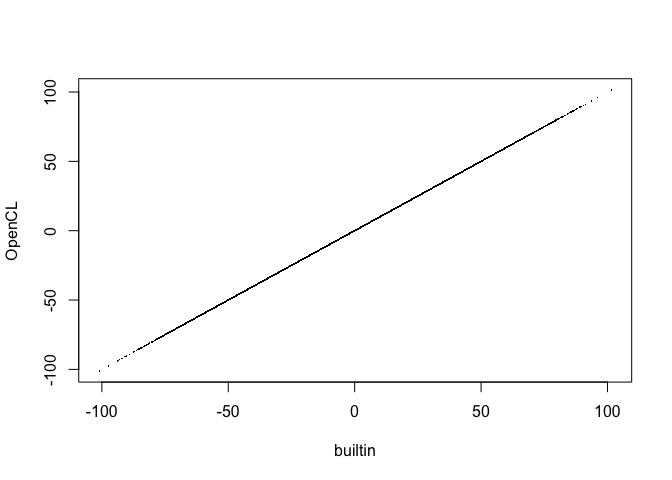
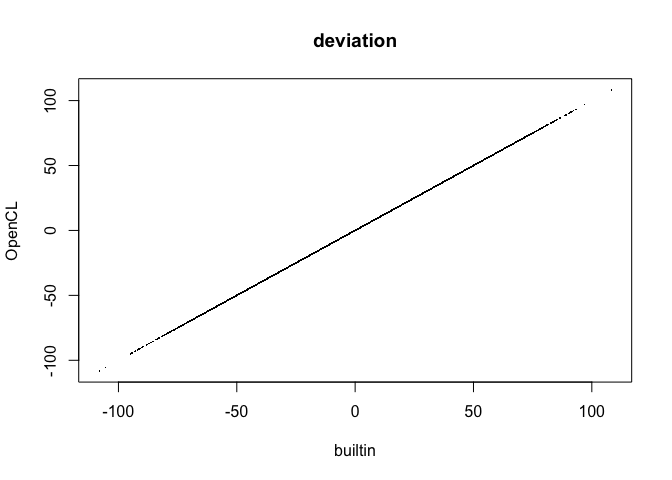
cran acceptance notice on readme, small edits

diff --git a/README.md b/README.md
@@ -1,7 +1,7 @@
-ardea 0.0.8
+ardea 0.1.1
 ================
 Nicholas Cooley
-2026-09-18
+2026-10-08
 
 - [Introduction](#introduction)
   - [Installation](#installation)
@@ -21,14 +21,20 @@ maturing](https://img.shields.io/badge/lifecycle-maturing-orange.svg)](https://l
 
 # Introduction
 
-*This package has been recently submitted to CRAN, and is relatively
-stable. It has only been thoroughly tested on a Mac M4, and a linux
-server running an NVIDIA A30.*
+*This package has been accepted to CRAN, and is relatively stable. It
+has only been thoroughly tested on a Mac M4, and a linux server running
+an NVIDIA A30.*
 
 ## Installation
 
-Once this package is on CRAN, that should be the preferred installation
-source, until then it can be installed from this repo via `pak`:
+The canonical form of `ardea` can be installed from CRAN via:
+
+``` r
+install.packages("ardea")
+```
+
+The version of `ardea` present in this repo can be installed from via
+`pak`:
 
 ``` r
 if (requireNamespace("pak", quietly = TRUE)) {
@@ -48,9 +54,9 @@ R CMD install --no-build-vignettes ardea
 This package is an attempt at building out infrastructure for users to
 dispatch code directly to GPU devices in R. It is currently designed to
 work wherever R works. During installation, it probes the system for the
-ability to successfully compile and run simple `Hello World` style
-device probes for target frameworks and their devices. Capabilities for
-specific frameworks are only compiled if the tooling for those
+ability to successfully compile and run `Hello World` style device
+probes for target frameworks and their devices. Capabilities for
+specific frameworks are only compiled if the tool chain for those
 frameworks is successfully detected.
 
 Because I do not have a Windows development environment, Windows is not
@@ -334,9 +340,14 @@ if (metal_is_available() &
   print("Metal is available on this system!")
   mtl_dvcs <- metal_device_information()
   mtl_ctx <- metal_make_context(device = mtl_dvcs[[1]])
-  mtl_program <- metal_make_program(metal_file = tmp_metal,
-                                    metallib_file = tmp_metallib,
-                                    context = mtl_ctx)
+  if (metal_compiler_is_available()) {
+    mtl_program <- metal_make_program(metal_file = tmp_metal,
+                                      metallib_file = tmp_metallib,
+                                      context = mtl_ctx)
+  } else {
+    mtl_program <- metal_make_program(metal_file = tmp_metal,
+                                      context = mtl_ctx)
+  }
   mtl_knl <- metal_make_kernelptr(program = mtl_program,
                                   context = mtl_ctx,
                                   kernel_names = "metal_mm_naive")
@@ -372,7 +383,8 @@ if (opencl_is_available() &
        res02,
        pch = 46,
        xlab = "builtin",
-       ylab = "OpenCL")
+       ylab = "OpenCL",
+       main = "deviation")
 }
 ```
 
@@ -396,7 +408,8 @@ if (cuda_is_available() &
        res03,
        pch = 46,
        xlab = "builtin",
-       ylab = "CUDA")
+       ylab = "CUDA",
+       main = "deviation")
 }
 if (metal_is_available() &
     metal_devices_exist()) {
@@ -423,13 +436,13 @@ if (metal_is_available() &
 
     ## [1] "Builtin implementation:"
     ##    user  system elapsed 
-    ##   0.031   0.001   0.031 
+    ##   0.031   0.000   0.032 
     ## [1] "OpenCL implementation:"
     ##    user  system elapsed 
-    ##   0.002   0.002   0.016 
+    ##   0.002   0.002   0.020 
     ## [1] "Metal implementation:"
     ##    user  system elapsed 
-    ##   0.001   0.000   0.006
+    ##   0.002   0.001   0.005
 
 This is currently the limit of `ardea`’s functionality. This package
 began mostly as a curiousity project with Metal, and turning it into a
